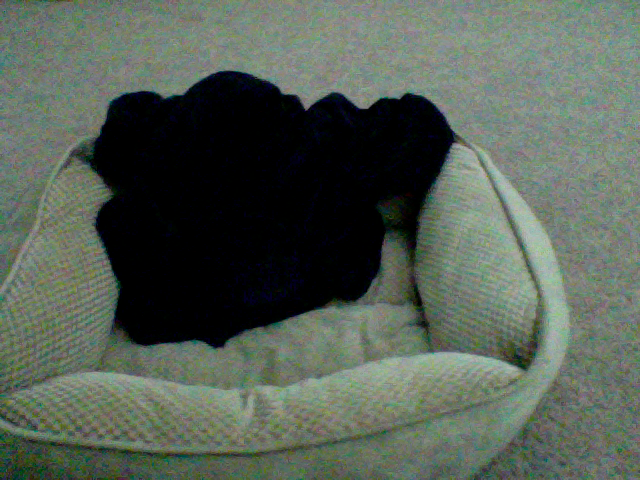
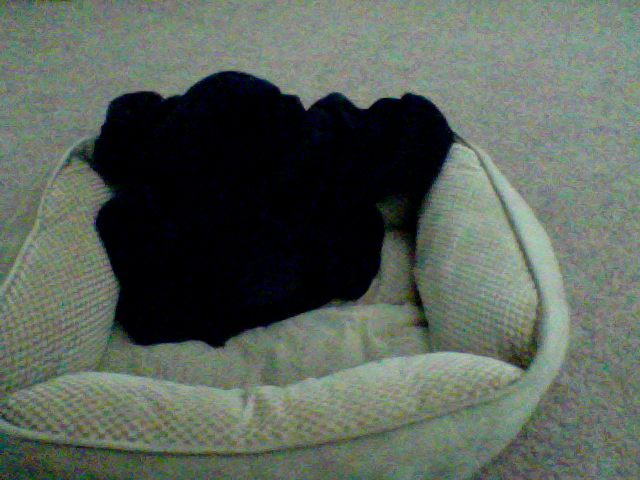
update at Month05Day08Time09:10

diff --git a/index.html b/index.html
@@ -39,8 +39,8 @@
       <!-- Example row of columns -->
       <div class="row">
         <div class="col-md-4">
-	<p>This picture was updated at Month05Day08Time09:09</p>
-		<img src="4_pic.png" />
+	<p>This picture was updated at Month05Day08Time09:10</p>
+		<img src="3_pic.png" />
         </div>
       </div>
 
